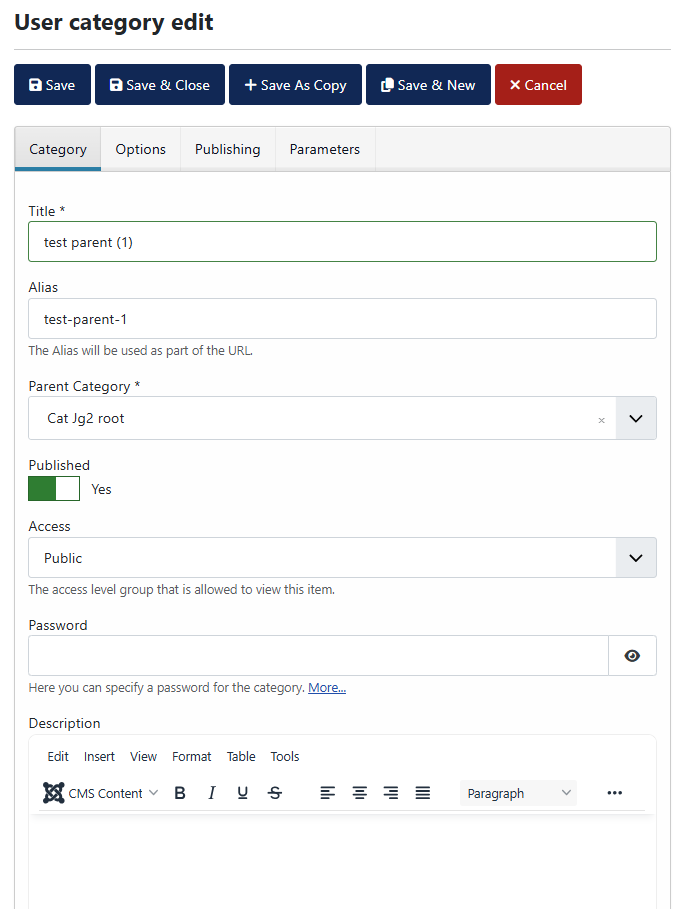
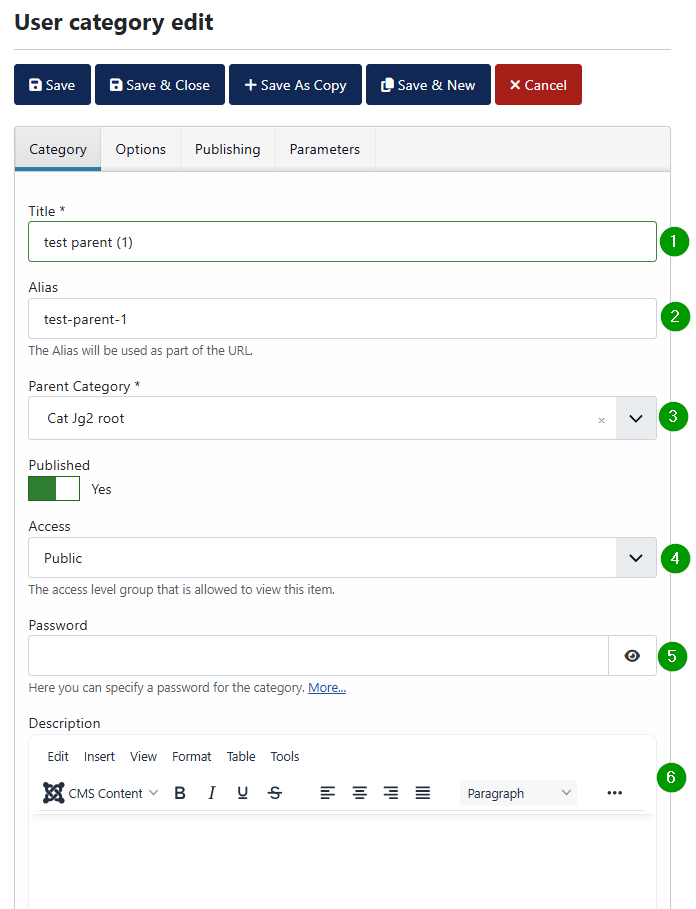
Documentation for 'CLI restared'

diff --git a/.jg_dev_doc/jg_4x/cli/01.JG_cli_commands.en.md b/.jg_dev_doc/jg_4x/cli/01.JG_cli_commands.en.md
@@ -17,39 +17,101 @@ The list here may be outdated. Use the following command for a actual list
 ```php joomla.php list joomgallery```
 
 #### Actual list
-* joomgallery:categories:list
-* joomgallery:category:add  
+*  joomgallery:category       List all variables of a joomgallery category
+*  joomgallery:category:add   WIP, not finished: Add joomgallery category
+*  joomgallery:category:list  List all joomgallery categories
+*  joomgallery:image          List all variables of a joomgallery image
+*  joomgallery:image:list     List all joomgallery images
 ....
 
-#### joomgallery:categories:list
-
-List actual categories  
-Future feature: Filter by selected user
-
-![Result List actual categories](https://github.com/ThomasFinnern/JoomGallery_fith_dev/blob/main/.jg_dev_doc/jg_4x/images/cli/CLI.help.category.add.en.png?raw=true")
-
-#### joomgallery:category:add
-
-%WIP%
-
-Aguments:
-
-  -t, --title=TITLE                    Title
-      --published[=PUBLISHED]          Published (yes/no)
-      --created_time[=CREATED_TIME]    Created time
-  -c, --created_by=CREATED_BY          Created by (owner)
-      --modified_time[=MODIFIED_TIME]  Modified time
-  -m, --modified_by[=MODIFIED_BY]      Modified by
-  -p, --parent_id[=PARENT_ID]          parent id (1=no parent)
+![Available commmands](https://github.com/ThomasFinnern/JoomGallery_fith_dev/blob/main/.jg_dev_doc/jg_4x/images/cli/CLI.availableCommands.en.png?raw=true")
 
 
-### Help on joomgallery commands:
+<hr>
+### joomgallery:category       
+List all variables of a joomgallery category
 
-With the ```--help``` option most commands tell about their required format
+Help command for options
+```php joomla.php --help joomgallery:category```
 
-fo example
-```php joomla.php --help joomgallery:category:add```
-```php joomla.php --help joomgallery:categories:list```
+  * You need to give a id of category using the --id option. Otherwisi ti will be requested
+  * You may restrict the value sting length  using the --max_line_length option. A result line that is too long will confuse the output lines
+
+CLI.help.category.en.png
 
 
-![Result help category add](https://github.com/ThomasFinnern/JoomGallery_fith_dev/blob/main/.jg_dev_doc/jg_4x/images/cli/CLI.list.categories.en.png?raw=true")
+php joomla.php joomgallery:category --id=4
+
+D:\Entwickl\2025\_gitHub\JoomGallery_fith_dev\.jg_dev_doc\jg_4x\images\cli\CLI.category.png
+
+
+<hr>
+### joomgallery:category:list  
+List all joomgallery categories
+
+Help command for options
+```php joomla.php --help joomgallery:category:list```
+
+  * You may filter on the user id of category using the --owner option.
+  * You may filter on created_by of category using the --created option.
+  * You may filter on the parent id of category using the --parent_id option.
+
+![Help for list categories](https://github.com/ThomasFinnern/JoomGallery_fith_dev/blob/main/.jg_dev_doc/jg_4x/images/cli/CLI.list.categories.en.png?raw=true")
+
+Command with owner/created_by option: 
+
+```php joomla.php joomgallery:category:list --created_by=291```
+
+Command with option parent 
+```php joomla.php joomgallery:category:list --parent=4```
+
+Result
+![Resultt on list categories](https://github.com/ThomasFinnern/JoomGallery_fith_dev/blob/main/.jg_dev_doc/jg_4x/images/cli/CLI.help.list.categories.en.png?raw=true")
+
+
+
+
+<hr>
+### joomgallery:image          
+List all variables of a joomgallery image
+
+Help command for options
+```php joomla.php --help joomgallery:image```
+
+
+<hr>
+### joomgallery:image:list     
+List all joomgallery images
+
+Help command for options
+```php joomla.php --help joomgallery:image:list```
+
+
+
+
+
+
+
+
+
+
+
+
+
+
+
+
+
+
+
+
+
+
+
+<hr>
+<hr>
+<hr>
+<hr>
+### joomgallery:category:add   
+**WIP**, not finished: Add joomgallery category
+

diff --git a/.jg_dev_doc/jg_4x/site/userUpload/06.UserCategoyEdit.en.md b/.jg_dev_doc/jg_4x/site/userUpload/06.UserCategoyEdit.en.md
@@ -1,0 +1,39 @@
+## User Upload
+
+### User Category Edit Page 
+
+![User Category Edit](https://github.com/ThomasFinnern/JoomGallery_fith_dev/blob/main/.jg_dev_doc/jg_4x/images/site.UserUpload/userCategoryEditForm.en.png?raw=true  "")
+
+(1) Select the title   
+(2) Alias will be generated automatically  
+(3) Parent Category  
+The selection is limited to the categories of the logged in user.  
+**Attention:** The "root" category of the user displays itself as parent  
+(4) Should the images be visible direct after upload finished   
+(5) Which group should be able to see the images
+(6) Password
+(7) Add a description to the category
+
+### User Category Edit Options 
+
+![User Category Edit Options](https://github.com/ThomasFinnern/JoomGallery_fith_dev/blob/main/.jg_dev_doc/jg_4x/images/site.UserUpload/userCategoryEdit.Options.en.png?raw=true  "")
+
+
+### User Category Edit Publishing 
+
+![User Category Edit Publishing](https://github.com/ThomasFinnern/JoomGallery_fith_dev/blob/main/.jg_dev_doc/jg_4x/images/site.UserUpload/userCategoryEdit.Publishing.en.png?raw=true  "")
+
+
+### User Category Edit Parameters 
+
+![User Category Edit Parameters](https://github.com/ThomasFinnern/JoomGallery_fith_dev/blob/main/.jg_dev_doc/jg_4x/images/site.UserUpload/userCategoryEdit.Parameters.en.png?raw=true  "")
+
+
+### Forward links
+
+![Image selection: Upload failed](https://github.com/ThomasFinnern/JoomGallery_fith_dev/blob/main/.jg_dev_doc/jg_4x/images/site.UserUpload/userCategory.forwardLinks.en.png?raw=true  "")
+
+The button name indicates where the link on the button leads
+
+
+

diff --git a/.jg_dev_doc/jg_4x/cli/0x.wip.md b/.jg_dev_doc/jg_4x/cli/0x.wip.md
@@ -1,0 +1,44 @@
+
+
+
+
+
+
+
+
+
+
+
+
+
+
+================================================================================
+WIP not finished
+
+![Result List actual categories](https://github.com/ThomasFinnern/JoomGallery_fith_dev/blob/main/.jg_dev_doc/jg_4x/images/cli/CLI.help.category.add.en.png?raw=true")
+
+### joomgallery:category:add
+
+%WIP%
+
+Aguments:
+
+  -t, --title=TITLE                    Title
+      --published[=PUBLISHED]          Published (yes/no)
+      --created_time[=CREATED_TIME]    Created time
+  -c, --created_by=CREATED_BY          Created by (owner)
+      --modified_time[=MODIFIED_TIME]  Modified time
+  -m, --modified_by[=MODIFIED_BY]      Modified by
+  -p, --parent_id[=PARENT_ID]          parent id (1=no parent)
+
+
+### Help on joomgallery commands:
+
+With the ```--help``` option most commands tell about their required format
+
+fo example
+```php joomla.php --help joomgallery:category:add```
+```php joomla.php --help joomgallery:categories:list```
+
+
+![Result help category add](https://github.com/ThomasFinnern/JoomGallery_fith_dev/blob/main/.jg_dev_doc/jg_4x/images/cli/CLI.list.categories.en.png?raw=true")

diff --git a/.jg_dev_doc/jg_4x/site/userUpload/03.UserUploadView.en.md b/.jg_dev_doc/jg_4x/site/userUpload/03.UserUploadView.en.md
@@ -39,12 +39,13 @@ Posibilities in Image edit view:
 
 Posibilities in Upload options:  
 (1) Select the "category" the image should belong to  
+&nbsp;&nbsp;&nbsp;&nbsp;&nbsp;&nbsp;The selection is limited to the categories of the logged in user.
 (2) Select the title   
 (3) Starts numbering images with the given value   
 (4) Author may be different from uploader anme  
 (5) Should the images be visible direct after upload finished   
-(6) Which group should be able to see the images   
-(7) Add a description to the ??? category  
+(6) Which group should be able to see the images
+(7) Add a description to each image  
 (8) Change the Editor input form from "writer/word" to HTML text view and back   
 
 ### Upload size limits (php, ...)
